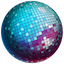
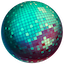
Updated sprites

diff --git a/src/assets.ts b/src/assets.ts
@@ -11,4 +11,6 @@ export const discoAssets = [
   { name: "disco ball 8", url: "disco/discoball_8.png" },
   { name: "disco ball 9", url: "disco/discoball_9.png" },
   { name: "disco ball 10", url: "disco/discoball_10.png" },
+  { name: "disco ball 11", url: "disco/discoball_11.png" },
+  { name: "disco ball 12", url: "disco/discoball_12.png" },
 ]
